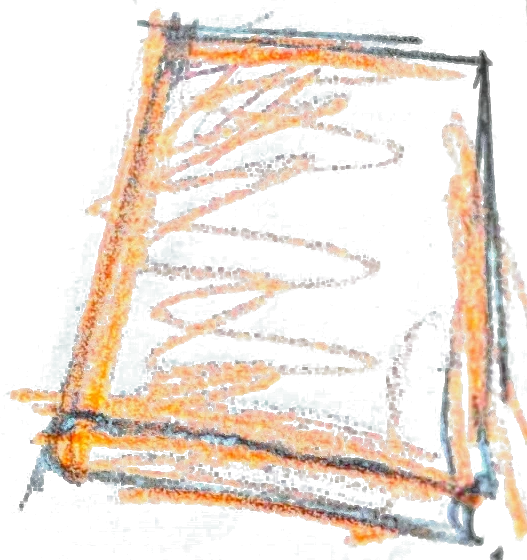
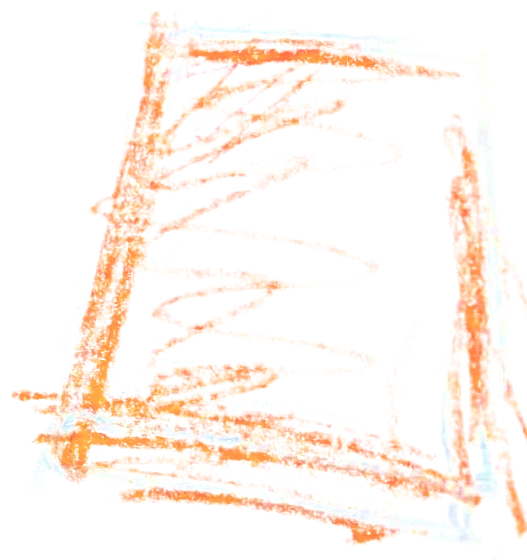
Experiment: back to the black room after the lamp (chalk drawings, light text and lines); the case simply appears inside the drawn border

diff --git a/index.html b/index.html
@@ -745,17 +745,17 @@
     #menu { right: 16px; }
     #logo { left: 16px; }
   }
-  /* EXPERIMENT: the lamp lights the room white; the line, notes and figure in dark crayon */
-  #hero { background: #F5F1E6; }
-  #hero, #figSvg { --pen: #1c1a17; }
-  #hero .hsolid, #figSvg .hsolid { fill: #F5F1E6; }
-  #figSvg .hpen, #hero .hpen { stroke: #1c1a17; }
-  #heroLine .hword { fill: #2b2926; }
+  /* EXPERIMENT: the main page stays the intro's dark room (plain black); the line, notes and figure in light crayon */
+  #hero { background: #000; }
+  #hero, #figSvg { --pen: #ece8dc; }
+  #hero .hsolid, #figSvg .hsolid { fill: #000; }
+  #figSvg .hpen, #hero .hpen { stroke: #ece8dc; }
+  #heroLine .hword { fill: #ece8dc; }
   /* the character and the "scroll" bubble: as they were, only in a waxier crayon (same lines, same size, same colours) */
   #scene #figure .ln, #scene #leg0, #scene #leg1, #scene #arm { filter: url(#crayonFig); }
   #figSvg #hfLeg0, #figSvg #hfLeg1, #figSvg #hfBody, #figSvg #hfArm { filter: url(#crayonFig); }   /* (the character as it was, thin, drawn by hand in crayon) */
   #figSvg #hfBubblePath, #figSvg #heroScroll { filter: url(#crayon); }
-  @media (min-width: 821px), (min-aspect-ratio: 85/100) { #workPage .wpFrame { stroke: #1c1a17; } }
+  @media (min-width: 821px), (min-aspect-ratio: 85/100) { #workPage { --pen: #ece8dc; } #workPage .wpFrame { stroke: #ece8dc; } }
   html.wk-open #grain { opacity: 0; }
   html.app-mode #grain { mix-blend-mode: multiply; opacity: 0.35; }   /* (the paper grain no longer veils the drawings: it only darkens, lightly) */   /* (the picture clear: no paper grain over it) */
   #workPage .wpFrame { filter: url(#wpFrameFx); stroke-width: 4.6px; }   /* (the frame hand-drawn in crayon, shimmering) */
@@ -844,7 +844,7 @@
     </g>
 
     <!-- light: the room turns white -->
-    <rect id="whiteout" x="-2000" y="-2000" width="6000" height="6000" fill="#F5F1E6" opacity="0"></rect>
+    <rect id="whiteout" x="-2000" y="-2000" width="6000" height="6000" fill="#000" opacity="0"></rect>
   </svg>
 </section>
 <script>
@@ -2305,7 +2305,7 @@
             const head = th.Ls + (th.Lt - th.Ls) * u, tail = Math.min(head, th.Lb * ease(clamp01(t / (RUN * 0.9))));   // (the tail always leaves the intro drawing completely and arrives at the object)
             const K = 150 * (1 - u * u), seg = slice(th.P, th.L, Math.max(th.Ls, head - K), head);   // (shrinks to nothing as it arrives: nothing left by the objects)   // (a short stroke, from where it leaves the drawing)
             const after = clamp01((t - RUN * 0.9) / 0.12);
-            { const w = Math.min(1, Math.max(0, S.white || 0)), c = 'rgb(' + [243, 241, 234].map((v, i) => Math.round(v + ([40, 37, 33][i] - v) * w)).join(',') + ')'; th.ls.forEach((p, k) => { p.setAttribute('d', seg.length > 1 ? poly(seg, J[k]) : ''); p.style.opacity = 1 - after; p.setAttribute('stroke', c); }); }   // (white on the dark, going dark as the room lights up)
+            { const w = Math.min(1, Math.max(0, S.white || 0)), c = '#f3f1ea'; /* (the room stays dark: the lines stay light) */ th.ls.forEach((p, k) => { p.setAttribute('d', seg.length > 1 ? poly(seg, J[k]) : ''); p.style.opacity = 1 - after; p.setAttribute('stroke', c); }); }   // (white on the dark, going dark as the room lights up)
             if ((maskNow || tt >= total) && !th.settled) {
               const eV = clamp01(tail / th.Ls), onT = clamp01((head - th.Lb) / (th.Lt - th.Lb)), fV = clamp01((t - RUN * 0.72) / FILL);
               if (th.er && th.er.v !== eV) { th.er.v = eV; { const o = th.er.L * (1 - eV); th.er.p.style.strokeDashoffset = o; if (th.er.core) th.er.core.style.strokeDashoffset = o; } }
@@ -4015,9 +4015,7 @@
     document.documentElement.classList.add('in-case');            // the menu gives way to "close"
     if (framed || document.getElementById('caseFrame').style.display === 'block') {   // (inside the crayon border: it scrolls up into it)
       caseFrame.show(); page.style.clipPath = caseFrame.clip;
-      const sp = { r: 0 }, setM = () => { const g = 'radial-gradient(circle at 50% 50%, #000 ' + sp.r + '%, transparent ' + (sp.r + 9) + '%)'; page.style.webkitMaskImage = page.style.maskImage = g; };
-      gsap.set(page, { autoAlpha: 1, yPercent: 0 }); setM();
-      gsap.to(sp, { r: 80, duration: 0.85, ease: 'power2.out', onUpdate: setM, onComplete: () => { page.style.webkitMaskImage = page.style.maskImage = ''; } });   // (it spreads open from the middle, like the Work picture)
+      gsap.fromTo(page, { autoAlpha: 0, yPercent: 0 }, { autoAlpha: 1, duration: 0.3, ease: 'sine.out' });   // (it simply appears inside the drawn window - no spread, no scaling)
     } else gsap.fromTo(page, { autoAlpha: 0 }, { autoAlpha: 1, duration: 0.5, ease: 'sine.out' });
     page.focus({ preventScroll: true });
     page.classList.add('sand');                                   // no plain picture before the sand starts
